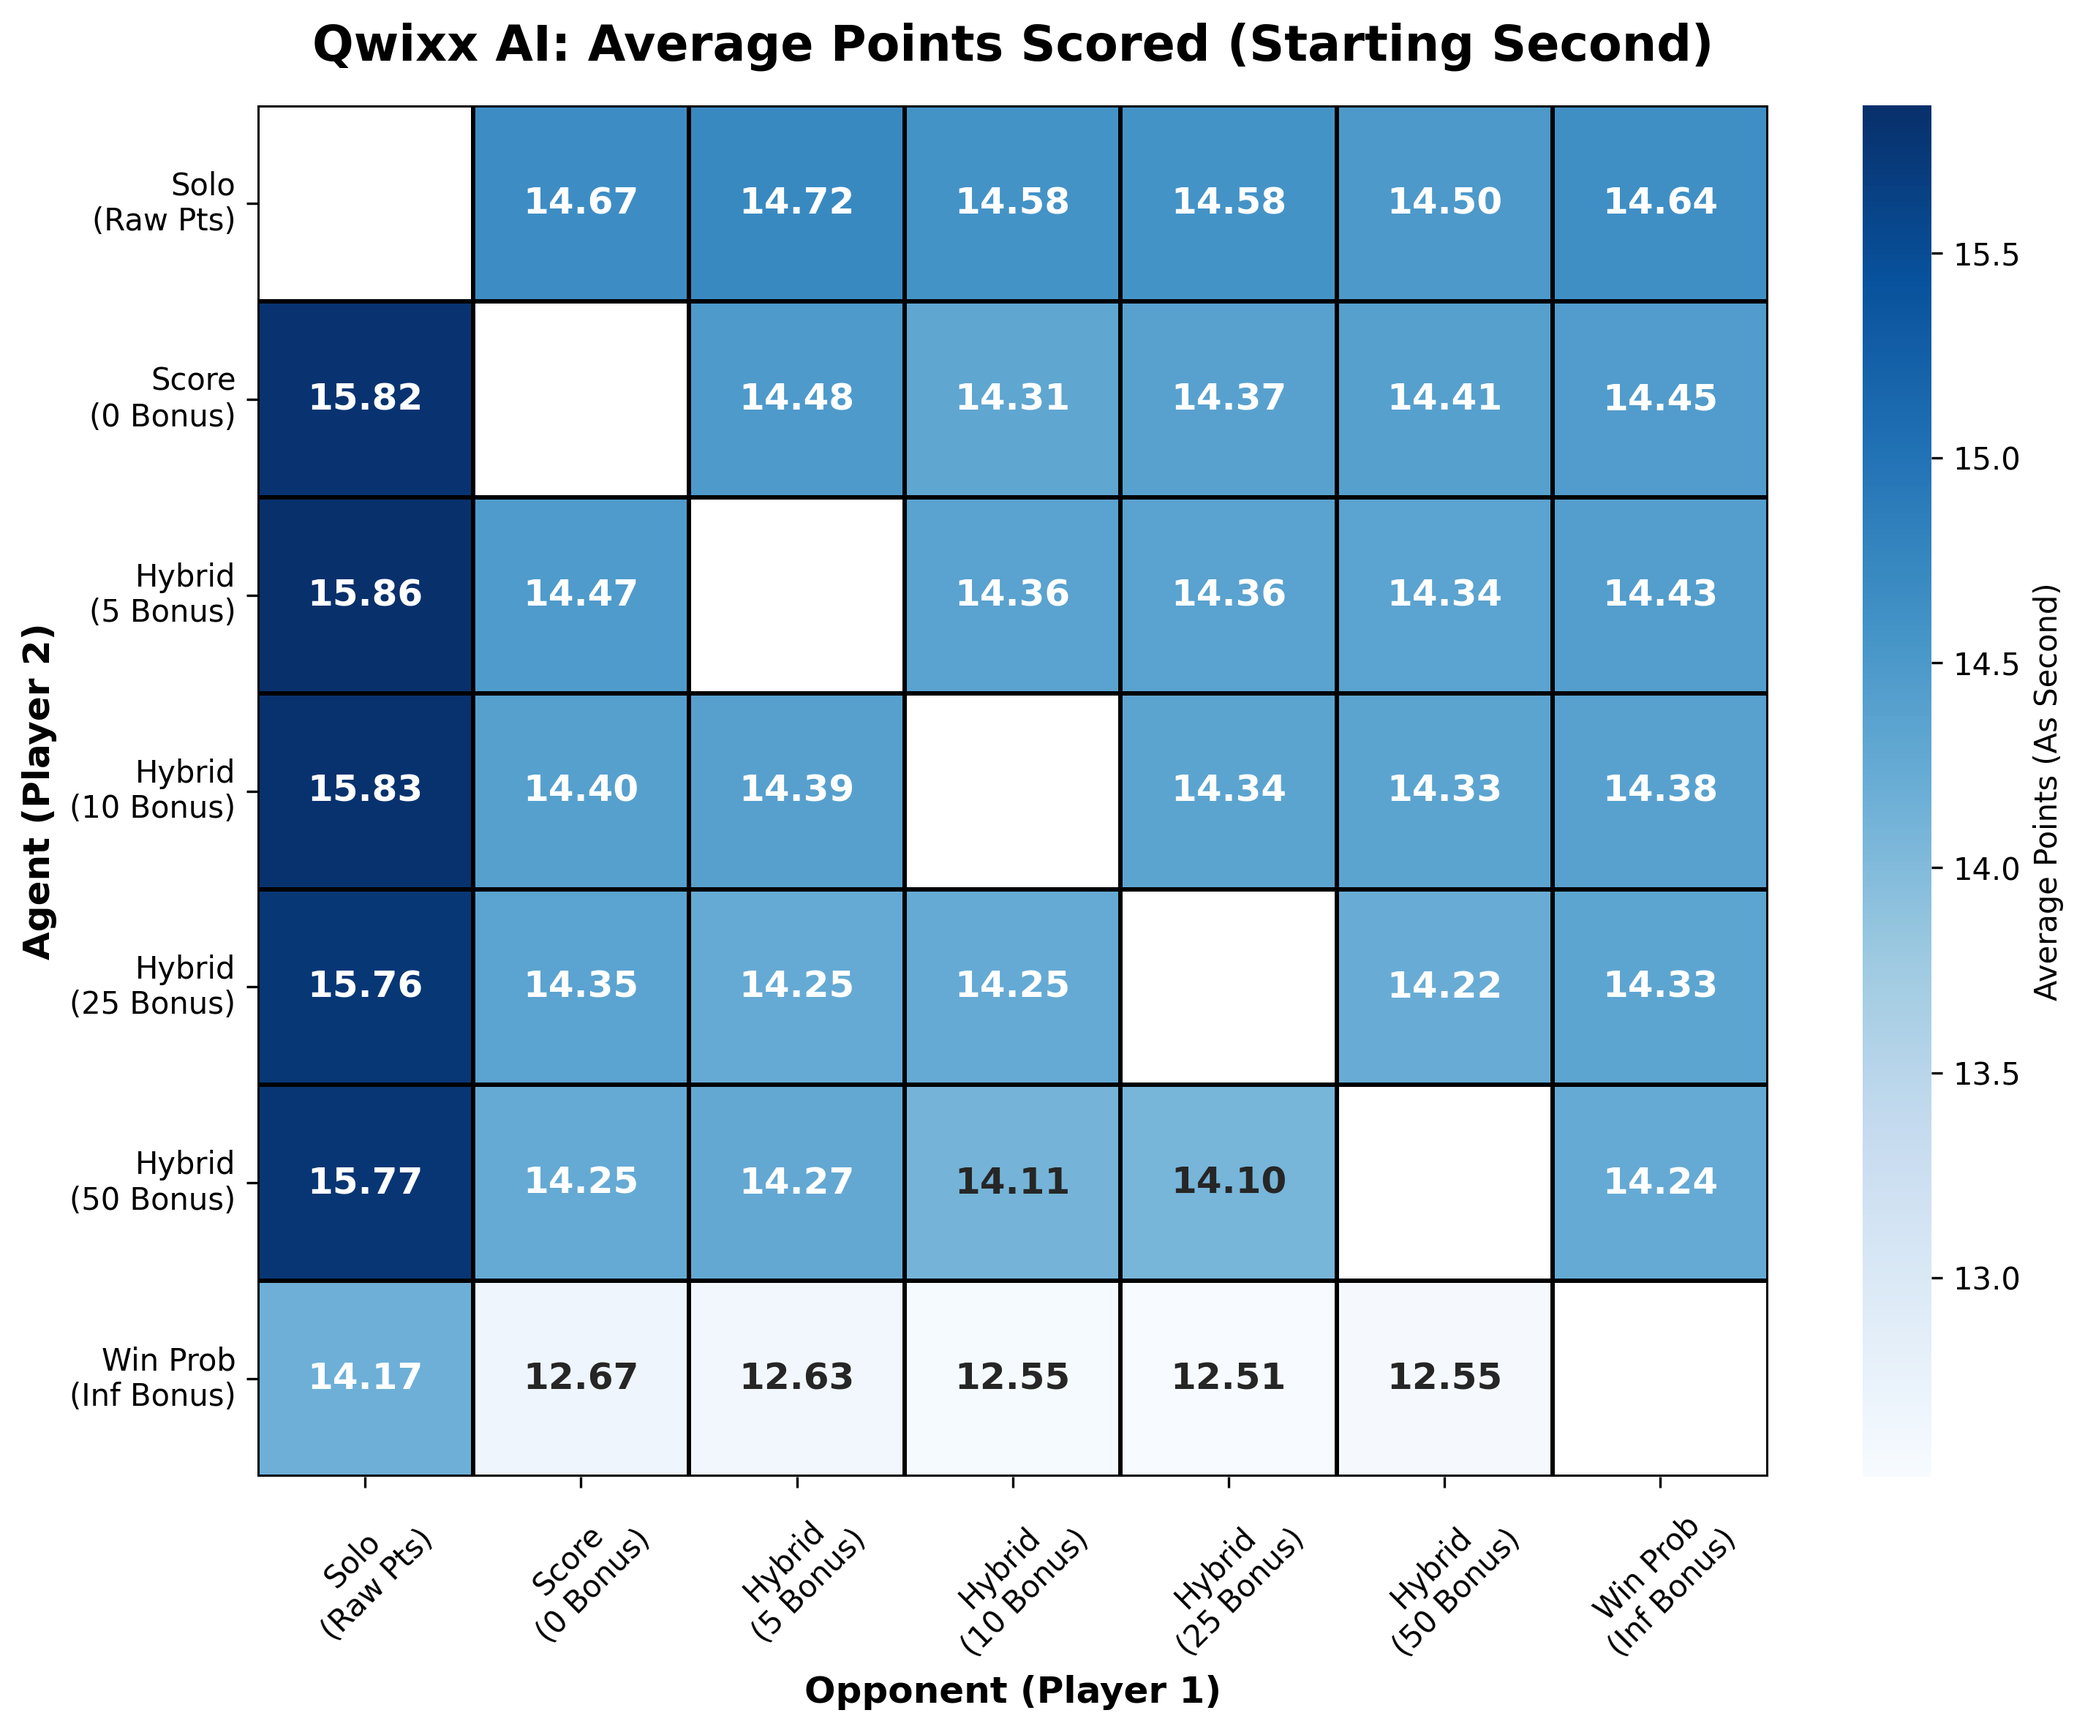
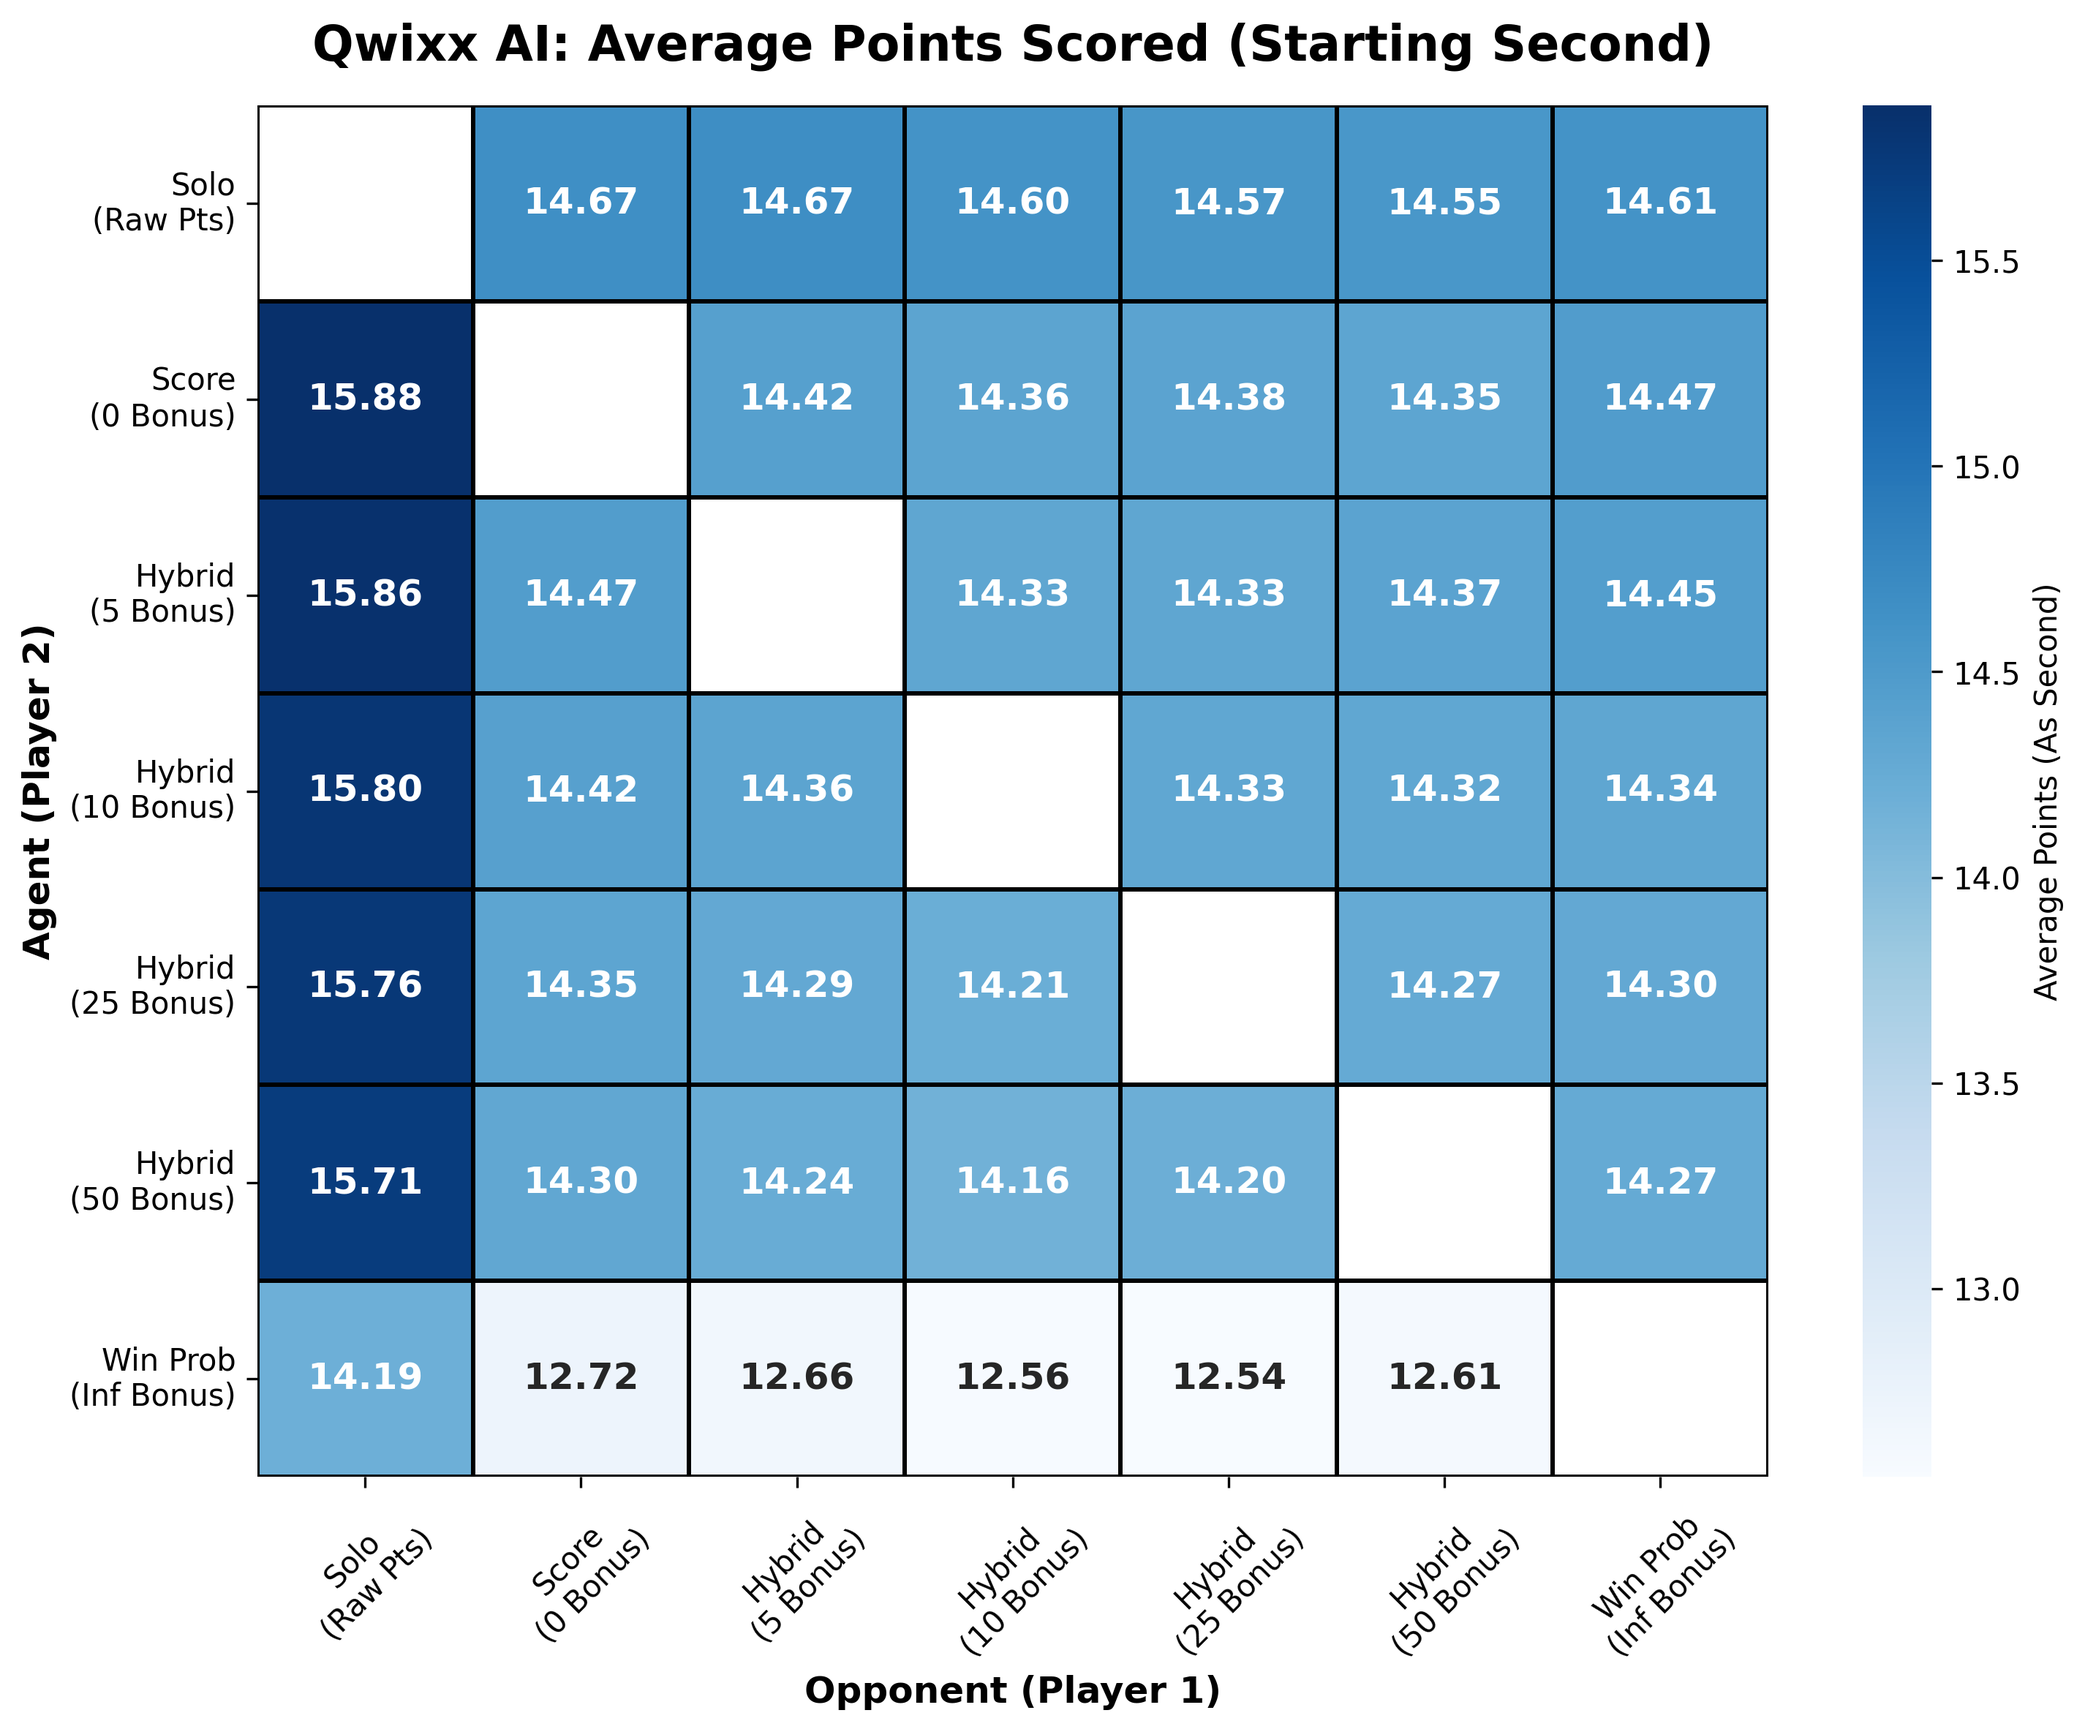
poc

diff --git a/analysis/calculate_spectrum_poc.py b/analysis/calculate_spectrum_poc.py
@@ -2,10 +2,10 @@ import os
 import matplotlib.pyplot as plt
 from analysis.evaluator import TournamentEngine
 
-def calculate_spectrum_poa():
+def calculate_spectrum_poc():
     """
-    Calculates the Price of Anarchy (PoA) spectrum as described in the thesis.
-    The PoA measures the degradation of system efficiency (total points scored) 
+    Calculates the Price of Competition (PoC) spectrum as described in the thesis.
+    The PoC measures the degradation of system efficiency (total points scored) 
     caused by agents playing competitively (zero-sum) rather than cooperatively.
     """
     
@@ -18,7 +18,7 @@ def calculate_spectrum_poa():
     results_welfare = {}
 
     print("\n" + "="*75)
-    print(f" CALCULATING PRICE OF ANARCHY SPECTRUM ({games_per_agent} Games/Agent)")
+    print(f" CALCULATING PRICE OF COMPETITION ({games_per_agent} Games/Agent)")
     print("="*75)
 
     # Step 1: Calculate the Expected Social Welfare (W) for each strategy
@@ -41,34 +41,34 @@ def calculate_spectrum_poa():
     w_opt = results_welfare['SOLO']
 
     print("\n" + "="*75)
-    print(" FINAL RESULTS: THE PRICE OF ANARCHY SPECTRUM")
+    print(" FINAL RESULTS: THE PRICE OF COMPETITION IN MINI-QWIXX")
     print("="*75)
     print(f"Optimal Social Welfare (W_opt): {w_opt:.2f} Total Points per game\n")
-    print(f"{'Strategy Type':<25} | {'Social Welfare':<15} | {'PoA (W_opt / W_nash)'}")
+    print(f"{'Strategy Type':<25} | {'Social Welfare':<15} | {'PoC (W_opt / W_nash)'}")
     print("-" * 75)
     
     plot_labels, welfares_to_plot, poas_to_plot = [], [], []
 
-    # Step 3: Calculate the Price of Anarchy for the adversarial/zero-sum agents
+    # Step 3: Calculate the Price of Competition for the adversarial/zero-sum agents
     for agent in ['SCORE', 'HYBRID_5', 'HYBRID_10', 'HYBRID_25', 'HYBRID_50', 'WIN']:
         w_nash = results_welfare[agent]
         
-        # Thesis Reference: Equation 15 -> PoA = W_solo / W_nash
-        # A PoA of 1.0 means perfectly efficient. > 1.0 indicates value destroyed by defensive play.
-        poa = w_opt / w_nash
+        # Thesis Reference: Equation 15 -> PoC = W_solo / W_nash
+        # A PoC of 1.0 means perfectly efficient. > 1.0 indicates value destroyed by defensive play.
+        poc = w_opt / w_nash
         
-        print(f"{agent:<25} | {w_nash:<15.2f} | {poa:.4f}")
+        print(f"{agent:<25} | {w_nash:<15.2f} | {poc:.4f}")
         
         # Map internal variable names to clean labels for the Matplotlib graph
         label_map = {'SCORE': 'Score', 'HYBRID_5': 'Hybrid 5', 'HYBRID_10': 'Hybrid 10', 'HYBRID_25': 'Hybrid 25', 'HYBRID_50': 'Hybrid 50', 'WIN': 'Win Prob'}
-        plot_labels.append(label_map[agent]); welfares_to_plot.append(w_nash); poas_to_plot.append(poa)
+        plot_labels.append(label_map[agent]); welfares_to_plot.append(w_nash); poas_to_plot.append(poc)
         
     print("="*75)
     print("\nGenerating visual plot...")
     
     # ========================================================
     # MATPLOTLIB VISUALIZATION
-    # Generates a dual-axis chart: Bar chart for Welfare, Line chart for PoA.
+    # Generates a dual-axis chart: Bar chart for Welfare, Line chart for PoC.
     # ========================================================
     fig, ax1 = plt.subplots(figsize=(10, 6))
     
@@ -86,20 +86,20 @@ def calculate_spectrum_poa():
     # Right Y-Axis: Price of Anarchy Ratio (Line Plot)
     ax2 = ax1.twinx()  
     color_line = '#D0021B'
-    ax2.set_ylabel('Price of Anarchy (PoA)', color=color_line, fontsize=12, fontweight='bold')
-    ax2.plot(plot_labels, poas_to_plot, color=color_line, marker='o', markersize=8, linewidth=3, label='PoA')
+    ax2.set_ylabel('Price of Competition (PoC)', color=color_line, fontsize=12, fontweight='bold')
+    ax2.plot(plot_labels, poas_to_plot, color=color_line, marker='o', markersize=8, linewidth=3, label='PoC')
     ax2.tick_params(axis='y', labelcolor=color_line)
     
-    # Scale the PoA axis slightly above the highest value for clean visual padding
+    # Scale the PoC axis slightly above the highest value for clean visual padding
     ax2.set_ylim([0.9, max(poas_to_plot) + 0.15]) 
 
     # Plot styling and saving
-    plt.title('Price of Anarchy Spectrum in Mini-Qwixx', fontsize=16, fontweight='bold')
+    plt.title('Price of Competition in Mini-Qwixx', fontsize=16, fontweight='bold')
     plt.grid(axis='y', linestyle='--', alpha=0.3)
     fig.tight_layout() 
 
     os.makedirs('plots', exist_ok=True)
-    plot_path = 'plots/price_of_anarchy_spectrum.png'
+    plot_path = 'plots/price_of_competition_spectrum.png'
     plt.savefig(plot_path, dpi=300)
     print(f"Plot saved successfully to: {plot_path}")
     
@@ -107,4 +107,4 @@ def calculate_spectrum_poa():
     plt.show()
 
 if __name__ == '__main__':
-    calculate_spectrum_poa()
+    calculate_spectrum_poc()

diff --git a/analysis/simulate_round_robin.py b/analysis/simulate_round_robin.py
@@ -124,7 +124,7 @@ def run_round_robin():
     # Calculate all C(7, 2) unique cross-play combinations
     matchups = list(itertools.combinations(agents, 2))
     
-    games_per_matchup = 1000000 
+    games_per_matchup = 300000 
     
     # Initialize the N x N payoff matrices
     win_matrix = np.full((len(agents), len(agents)), 50.0)
